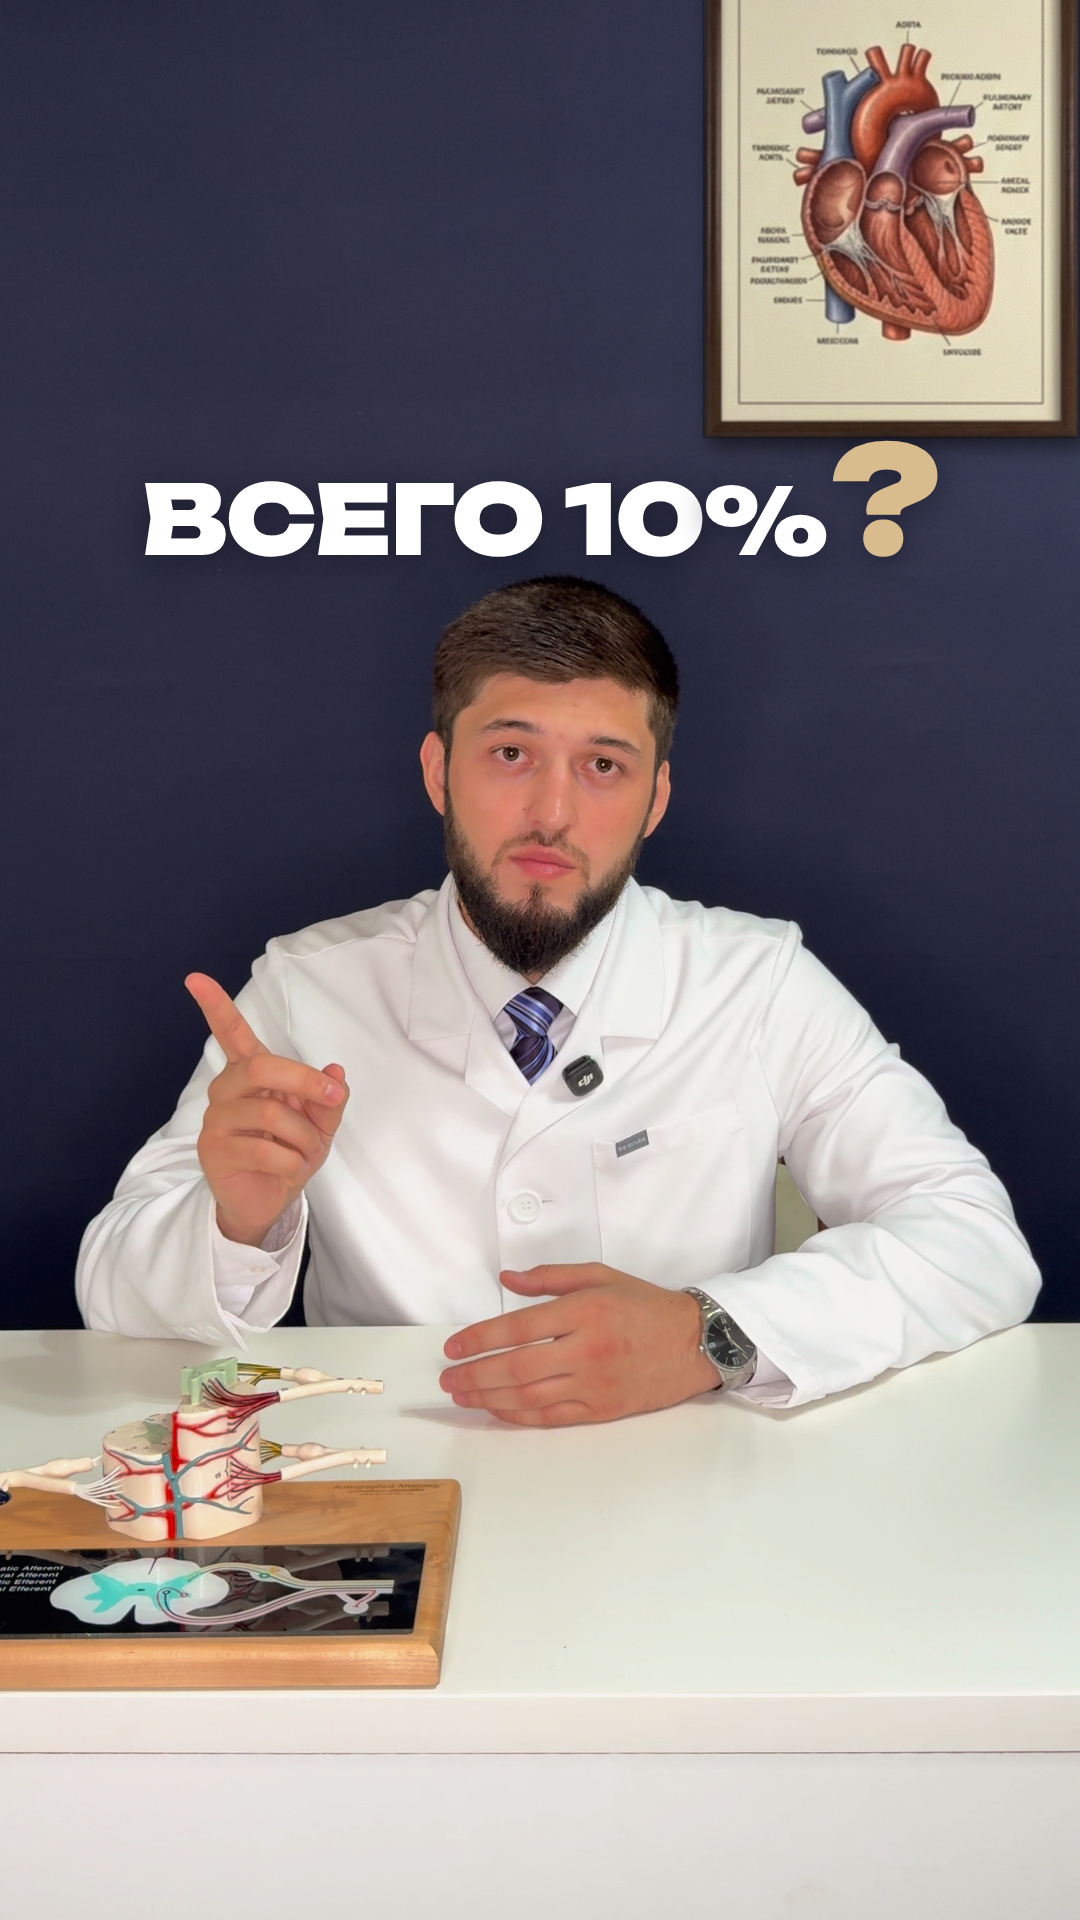
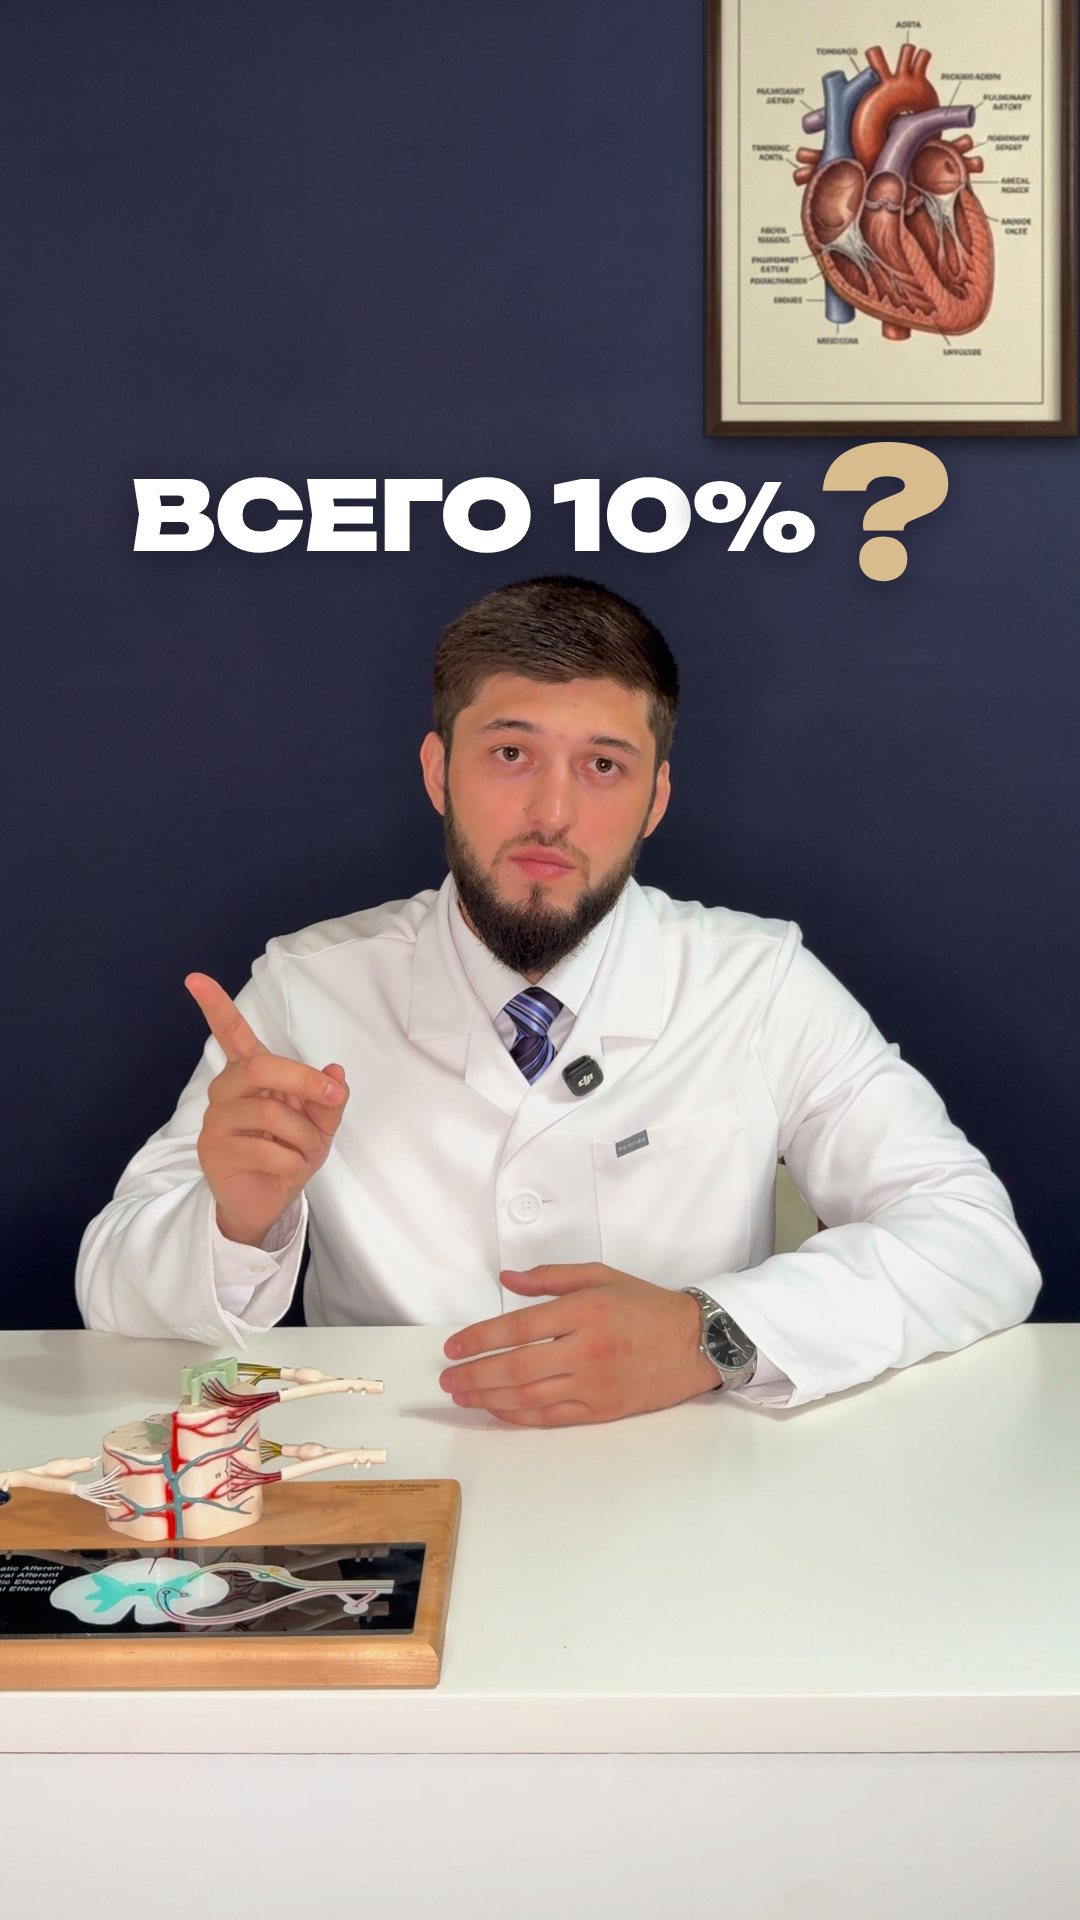
Reel 2 cover 21: larger "?" (1.86), centred on the caps
Under the poster there is no room for a taller "?" sitting on the baseline,
so it is lowered to centre on the caps; only wall is below it (the head is
under the middle of the line). "?" 138 px tall instead of 115, 21 px from the
poster; letters 24 px above the head.

Claude-Session: https://claude.ai/code/session_01CUeAeRhq8HGUP8vv7VWuP4

Changed region(s): [[0.1222, 0.2188, 0.8861, 0.3125]]

diff --git a/doctor-intro-reels/reel_2/covers/cover.html b/doctor-intro-reels/reel_2/covers/cover.html
@@ -118,8 +118,9 @@ const V = {
   20: { z: "c", base: "base2", front: `
       <div class="t mont" data-w="800" data-center style="top:398px; font-weight:900; font-size:110px; letter-spacing:-.02em">Всего <span class="mark">10%</span><span style="font-size:1.1em">?!</span></div>` },
   // № 21 — № 17 в прежнем виде (до правок по разметке), без «!», по центру; «?» и «%» здесь ещё крупнее.
+  // Большой «?» опущен ниже строки: под ним стена (голова — под серединой строки), а сверху — картина.
   21: { z: "b", base: "base2", front: `
-      <div class="t unb" data-center style="top:425px; font-weight:900; font-size:96px; letter-spacing:-.02em">ВСЕГО 10<span class="pct" style="font-size:.96em">%</span><span class="acc q" style="font-size:1.55em">?</span></div>` },
+      <div class="t unb" data-center style="top:423px; font-weight:900; font-size:96px; letter-spacing:-.02em">ВСЕГО 10<span class="pct" style="font-size:.96em">%</span><span class="acc q" style="font-size:1.86em; vertical-align:-.155em">?</span></div>` },
   // № 22, 23 — № 17 и № 21 на кадре со скриншота заказчика (base3: руки сложены, ник убран);
   // голова здесь на 7 px выше, поэтому строка № 23 чуть меньше — зазоры до картины и макушки равны.
   22: { z: "b", base: "base3", front: `

diff --git a/doctor-intro-reels/reel_2/covers/README.md b/doctor-intro-reels/reel_2/covers/README.md
@@ -43,7 +43,7 @@
 | 18 | ВСЕГО 10%?! | узкий Oswald за головой, коралловые «?!», план 1,15× |
 | 19 | Всего 10%?! | антиква: маленькое курсивное «Всего», крупные «10%», золотые «?!»; общий план |
 | 20 | Всего 10%?! | «10%» на золотой плашке, Montserrat, план 1,30× |
-| 21 | ВСЕГО 10%? | № 17 в прежнем виде без «!», заглавными, «?» 1,55 и «%» 0,96 от букв, крупный «?» и меньший «%»: Unbounded, строка целиком между картиной и головой, план 1,15× |
+| 21 | ВСЕГО 10%? | № 17 в прежнем виде без «!», заглавными, «?» 1,86 (по центру строки, ниже линии букв) и «%» 0,96 от букв, крупный «?» и меньший «%»: Unbounded, строка целиком между картиной и головой, план 1,15× |
 | 22 | ВСЕГО 10%? | № 17 на кадре со второго скриншота (руки сложены) |
 | 23 | ВСЕГО 10%? | № 21 на кадре со второго скриншота (руки сложены) |
 
